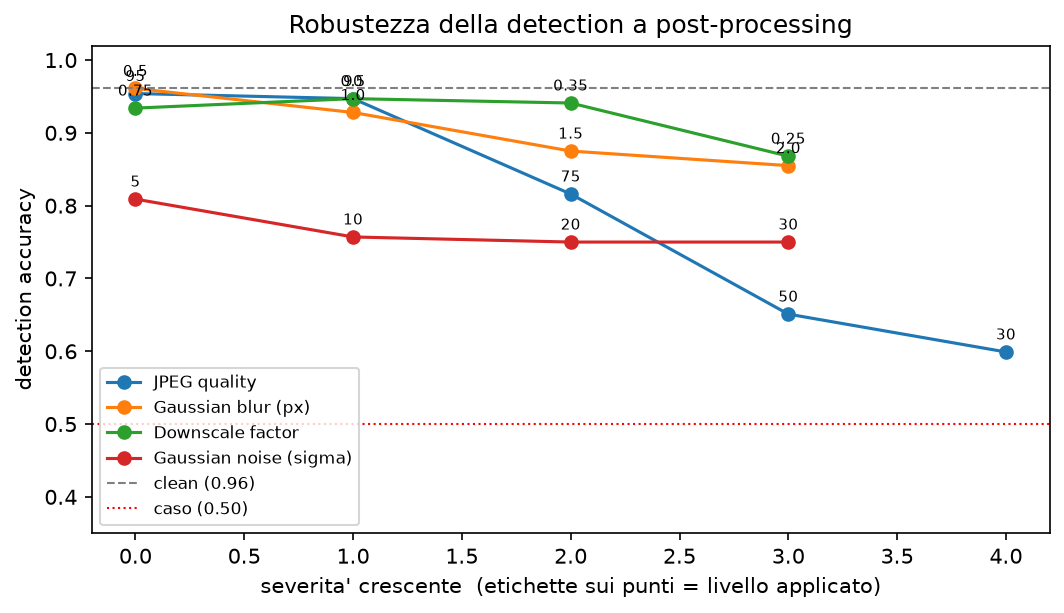
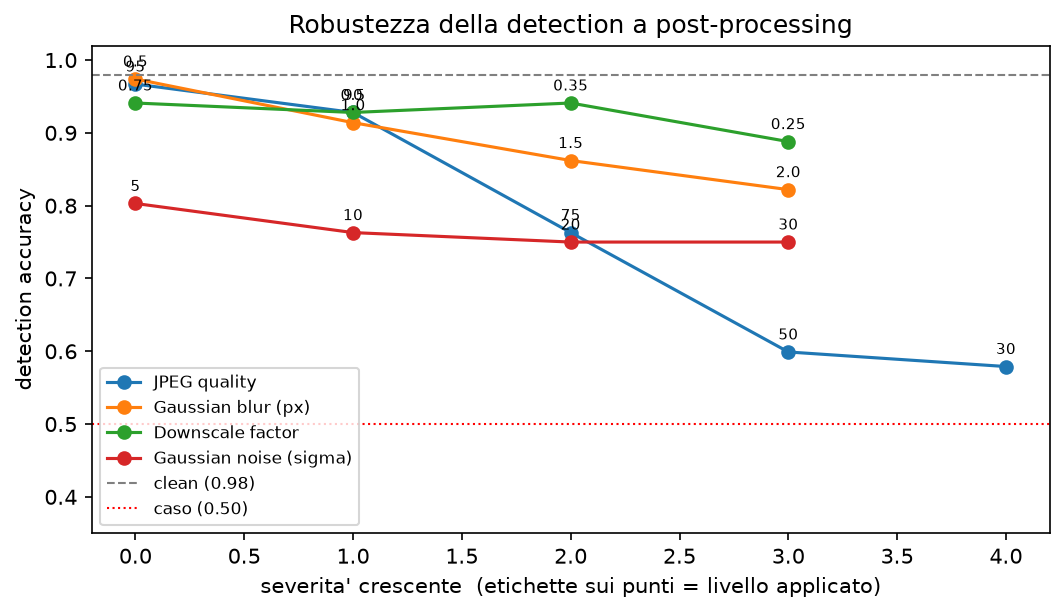
Run All: output §7-quinquies nel notebook + report §5.8 allineata al run GPU

diff --git a/Progetto/report/report.md b/Progetto/report/report.md
@@ -27,7 +27,7 @@ vs SDXL generati dalla stessa base), la detection raggiunge 0.987 e **resta inva
 dopo la normalizzazione del colore**, indicando una capacità di rilevamento *genuina*
 (seppur specifica per SDXL). Un test di **robustezza a post-processing** mostra inoltre
 che la detection regge blur e ridimensionamento ma **crolla sotto forte compressione
-JPEG** (0.60 a q30), il che ne delimita l'uso pratico. Il contributo principale di
+JPEG** (0.58 a q30), il che ne delimita l'uso pratico. Il contributo principale di
 questo lavoro è quindi **metodologico**: identificare, misurare e discutere onestamente
 tali limiti (confound di sorgente, fragilità alla compressione), isolando con un
 benchmark controllato il segnale forense reale.
@@ -377,28 +377,29 @@ modello del run principale (nessun riaddestramento) è valutato su un test set
 **degradato**: ogni degradazione è applicata alla risoluzione **canonica (256)**, così
 tutte le classi subiscono la stessa alterazione e non si reintroduce il confound di
 risoluzione. Metrica: **detection accuracy** (real vs fake). Baseline pulita
-attraverso la stessa pipeline: **0.961**.
+attraverso la stessa pipeline: **0.980** (coincide con la detection di §5.1: la
+pipeline di degradazione non introduce di per sé alcuna alterazione).
 
 ![Robustezza della detection a post-processing](figures/robustness.png)
 
 | Degradazione | Lieve | → | → | Severa |
 |--------------|------:|---:|---:|------:|
-| **JPEG** (quality 95→30) | 0.954 | 0.816 (q75) | 0.651 (q50) | **0.599** (q30) |
-| **Blur gaussiano** (σ 0.5→2.0 px) | 0.961 | 0.928 | 0.875 | 0.855 |
-| **Downscale** (fattore 0.75→0.25) | 0.934 | 0.947 | 0.941 | 0.868 |
-| **Rumore gaussiano** (σ 5→30) | 0.809 | 0.757 | 0.750 | 0.750 |
+| **JPEG** (quality 95→30) | 0.967 | 0.763 (q75) | 0.599 (q50) | **0.579** (q30) |
+| **Blur gaussiano** (σ 0.5→2.0 px) | 0.974 | 0.914 | 0.862 | 0.822 |
+| **Downscale** (fattore 0.75→0.25) | 0.941 | 0.928 | 0.941 | 0.888 |
+| **Rumore gaussiano** (σ 5→30) | 0.803 | 0.763 | 0.750 | 0.750 |
 
 **Lettura.**
 
-- **JPEG è la minaccia principale.** Fino a q90 la detection regge (0.947), ma sotto
-  q75 crolla: **0.65 a q50**, **0.60 a q30**, ormai poco sopra il caso. La
-  quantizzazione DCT distrugge proprio gli **artefatti periodici di alta frequenza**
-  su cui si appoggia lo stream di Fourier — il segnale forense più fragile.
+- **JPEG è la minaccia principale.** A q95 la detection regge (0.967) e a q90 cede
+  poco (0.928), ma sotto q75 crolla: **0.60 a q50**, **0.58 a q30**, ormai poco sopra
+  il caso. La quantizzazione DCT distrugge proprio gli **artefatti periodici di alta
+  frequenza** su cui si appoggia lo stream di Fourier — il segnale forense più fragile.
 - **Il rumore** abbatte subito l'accuratezza ma poi **satura a ~0.75**: sporca lo
   spettro senza cancellarlo del tutto, lasciando allo stream RGB un residuo di segnale.
 - **Blur** e **downscale** sono i più **tollerati**: il ridimensionamento è quasi
-  innocuo (0.87–0.95) perché la pipeline già normalizza la scala; il blur degrada in
-  modo graduale (fino a 0.855) senza collassi.
+  innocuo (0.89–0.94) perché la pipeline già normalizza la scala; il blur degrada in
+  modo graduale (fino a 0.822) senza collassi.
 
 **Implicazione forense.** Il sistema è utilizzabile su materiale di buona qualità
 (JPEG ≥ q90, ridimensionato) ma **non** è affidabile su immagini fortemente
@@ -406,10 +407,11 @@ ricompresse — lo scenario tipico dei social. La contromisura standard è la **
 augmentation in training** (ricompressione casuale delle immagini durante
 l'addestramento), non applicata qui: è il naturale sviluppo futuro (§8).
 
-> *Nota.* I valori di questa sezione provengono da un run di riferimento in cui la
-> baseline pulita è 0.961 (vedi la nota all'inizio di §5 sulla varianza tra run,
-> ±pochi punti da non-determinismo GPU). Ciò che conta è il **calo relativo**, stabile tra i run: il
-> profilo JPEG-fragile / resize-robusto è la conclusione qualitativa.
+> *Nota.* I valori provengono dallo stesso run definitivo delle sezioni precedenti
+> (notebook, sezione 7-quinquies): la baseline pulita coincide infatti con la
+> detection di §5.1 (0.980). Vale comunque la nota all'inizio di §5 sulla varianza
+> tra run: ciò che conta è il **calo relativo**, stabile — il profilo
+> JPEG-fragile / resize-robusto è la conclusione qualitativa.
 
 ## 6. Analisi qualitativa dell'explainability
 
@@ -520,7 +522,7 @@ decisione *interpretabile* invece di mascherarla con artefatti inventati.
   canonica (§3.1), ma da solo sposta poco le metriche: era una delle cause, non
   l'unica.
 - **Robustezza a post-processing (§5.8).** La detection tollera blur e ridimensionamento
-  ma è **fragile alla compressione JPEG**: crolla da 0.96 a **0.60 a q30**, perché la
+  ma è **fragile alla compressione JPEG**: crolla da 0.98 a **0.58 a q30**, perché la
   quantizzazione DCT cancella gli artefatti di alta frequenza. Delimita l'uso pratico
   (materiale poco compresso) e indica la JPEG-augmentation come priorità.
 - **Fedeltà del VLM.** Con un *system prompt* cauto e decoding deterministico (§6)
@@ -548,7 +550,7 @@ isolando la coppia real vs SDXL (stessa base FFHQ-256), la detection raggiunge 0
 e **sopravvive alla normalizzazione del colore**, prova che — a parità di sorgente —
 il modello coglie artefatti di sintesi genuini, non solo la firma del dataset. Un
 test di **robustezza** (§5.8) completa il quadro: la detection tollera blur e resize
-ma è fragile alla forte compressione JPEG (0.60 a q30), delimitandone l'uso pratico.
+ma è fragile alla forte compressione JPEG (0.58 a q30), delimitandone l'uso pratico.
 Il valore del lavoro è quindi metodologico: mostrare come si
 smaschera un risultato troppo bello per essere vero.
 
